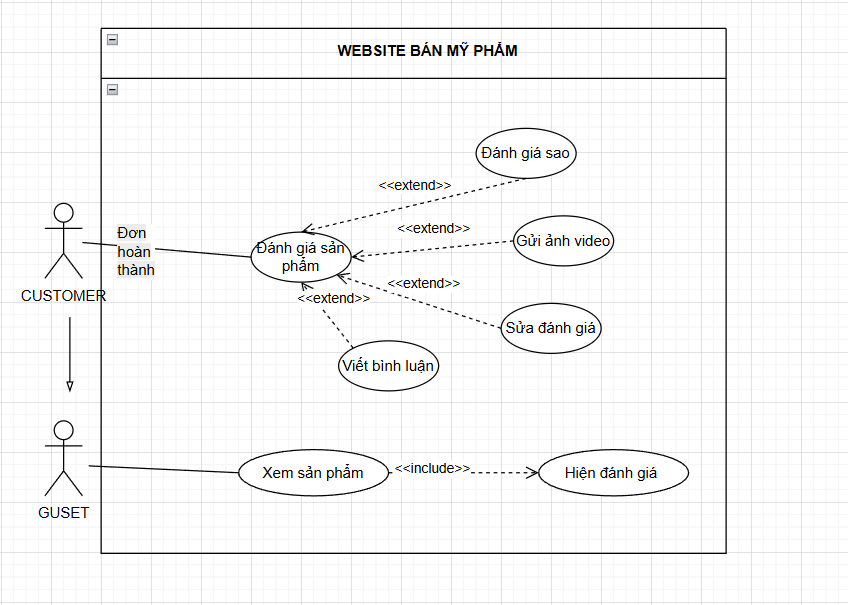
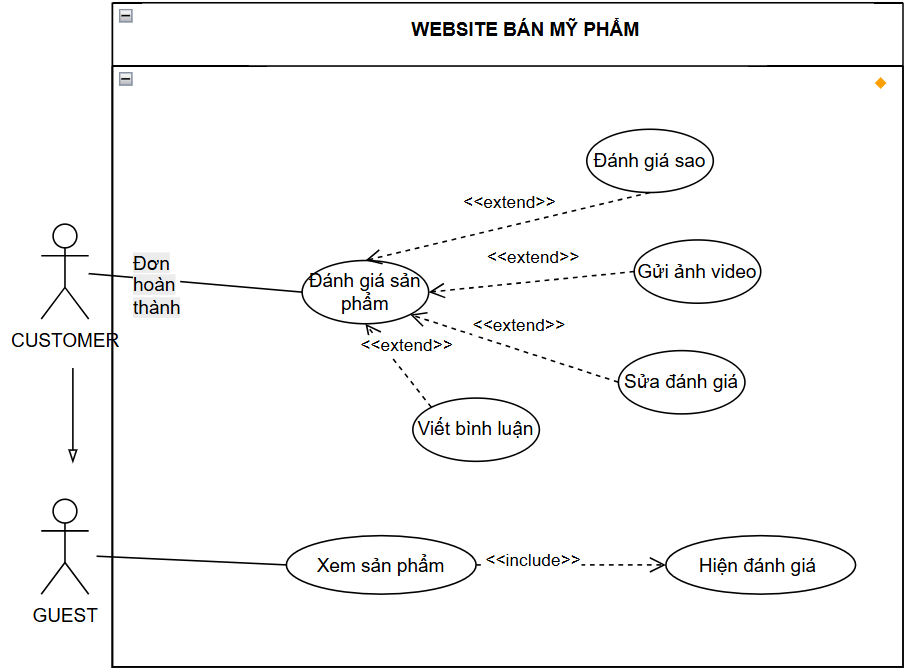
add usecase for order/cart

diff --git a/chapters/main/chapter2/section2.tex b/chapters/main/chapter2/section2.tex
@@ -340,6 +340,130 @@ Luồng thay thế &
 \end{table}
 
 
+
+%----------------------------------------------------------------Giỏ hàng và đặt hàng---------------
+\subsection{Use case Diagram chi tiết về giỏ hàng và đặt hàng}
+\begin{figure}[H]
+    \centering
+    \includegraphics[width=0.9\textwidth]{graphics/main/chapter2/section2/usecase_order.png}
+    \caption{Use case Diagram giỏ hàng và đặt hàng}
+    \label{fig:usecase_order}
+\end{figure}
+Dưới đây là các đặc tả use case của quy trình thêm sản phẩm vào giỏ hàng và đặt hàng.
+
+\begin{table}[H]
+\centering
+\caption{Đặc tả Use Case UC-05: Thêm vào giỏ hàng}
+\label{tab:uc05}
+\begin{tabular}{|p{4cm}|p{11cm}|}
+\hline
+\textbf{Actor} & Customer \\
+\hline
+\textbf{Mô tả} & Khách hàng thêm sản phẩm yêu thích vào giỏ hàng để chuẩn bị mua sắm \\
+\hline
+\textbf{Tiền điều kiện} & Khách hàng đang xem chi tiết sản phẩm hoặc danh sách sản phẩm \\
+\hline
+\textbf{Luồng chính} & 
+1. Khách hàng chọn sản phẩm \newline
+2. Chọn số lượng và các tùy chọn (nếu có) \newline
+3. Nhấn nút "Thêm vào giỏ hàng" \newline
+4. Hệ thống kiểm tra tồn kho \newline
+5. Hệ thống thêm sản phẩm vào giỏ hàng và thông báo thành công \\
+\hline
+\textbf{Luồng phụ} & 
+4a. Sản phẩm hết hàng $\rightarrow$ Hệ thống thông báo và không cho phép thêm vào giỏ \\
+\hline
+\textbf{Hậu điều kiện} & Sản phẩm được lưu trong giỏ hàng của khách hàng \\
+\hline
+\end{tabular}
+\end{table}
+
+\begin{table}[H]
+\centering
+\caption{Đặc tả Use Case UC-06: Đặt hàng}
+\label{tab:uc06}
+\begin{tabular}{|p{4cm}|p{11cm}|}
+\hline
+\textbf{Actor} & Customer \\
+\hline
+\textbf{Mô tả} & Khách hàng tiến hành đặt mua các sản phẩm đã có trong giỏ hàng \\
+\hline
+\textbf{Tiền điều kiện} & Có sản phẩm trong giỏ hàng và đã đăng nhập \\
+\hline
+\textbf{Luồng chính} & 
+1. Khách hàng truy cập giỏ hàng \newline
+2. Chọn các sản phẩm muốn thanh toán \newline
+3. Nhấn "Đặt hàng" \newline
+4. Điền thông tin cá nhân (UC-07) \newline
+5. Chọn phương thức thanh toán (UC-08) \newline
+6. Xác nhận đơn hàng \newline
+7. Hệ thống tạo đơn hàng và trừ số lượng tồn kho \\
+\hline
+\textbf{Luồng phụ} & 
+Extend: Chọn mã giảm giá (UC-09) \\
+\hline
+\textbf{Hậu điều kiện} & Đơn hàng được tạo thành công với trạng thái "Chờ xác nhận" \\
+\hline
+\end{tabular}
+\end{table}
+
+\begin{table}[H]
+\centering
+\caption{Đặc tả Use Case UC-07: Điền thông tin cá nhân}
+\label{tab:uc07}
+\begin{tabular}{|p{4cm}|p{11cm}|}
+\hline
+\textbf{Actor} & Customer \\
+\hline
+\textbf{Mô tả} & Cung cấp thông tin nhận hàng cho đơn hàng \\
+\hline
+\textbf{Luồng chính} & 
+1. Nhập họ tên người nhận \newline
+2. Nhập số điện thoại \newline
+3. Nhập địa chỉ giao hàng cụ thể \newline
+4. Hệ thống ghi nhận thông tin \\
+\hline
+\end{tabular}
+\end{table}
+
+\begin{table}[H]
+\centering
+\caption{Đặc tả Use Case UC-08: Chọn phương thức thanh toán}
+\label{tab:uc08}
+\begin{tabular}{|p{4cm}|p{11cm}|}
+\hline
+\textbf{Actor} & Customer \\
+\hline
+\textbf{Mô tả} & Khách hàng lựa chọn cách thức thanh toán cho đơn hàng \\
+\hline
+\textbf{Luồng chính} & 
+1. Khách hàng chọn giữa các phương thức: COD, VNPay, Chuyển khoản \newline
+2. Hệ thống ghi nhận phương thức đã chọn \\
+\hline
+\end{tabular}
+\end{table}
+
+\begin{table}[H]
+\centering
+\caption{Đặc tả Use Case UC-09: Chọn mã giảm giá}
+\label{tab:uc09}
+\begin{tabular}{|p{4cm}|p{11cm}|}
+\hline
+\textbf{Actor} & Customer \\
+\hline
+\textbf{Mô tả} & Khách hàng áp dụng mã khuyến mãi để được giảm giá đơn hàng \\
+\hline
+\textbf{Luồng chính} & 
+1. Nhập mã giảm giá hoặc chọn từ danh sách \newline
+2. Hệ thống kiểm tra điều kiện áp dụng \newline
+3. Tính toán lại tổng tiền đơn hàng \\
+\hline
+\textbf{Luồng phụ} & 
+2a. Mã không hợp lệ/hết hạn $\rightarrow$ Thông báo lỗi \\
+\hline
+\end{tabular}
+\end{table}
+
 % usecase đánh giá sản phẩm admin
 \subsection{Use case Diagram đánh giá sản phẩm admin}
 \begin{figure}[H]
